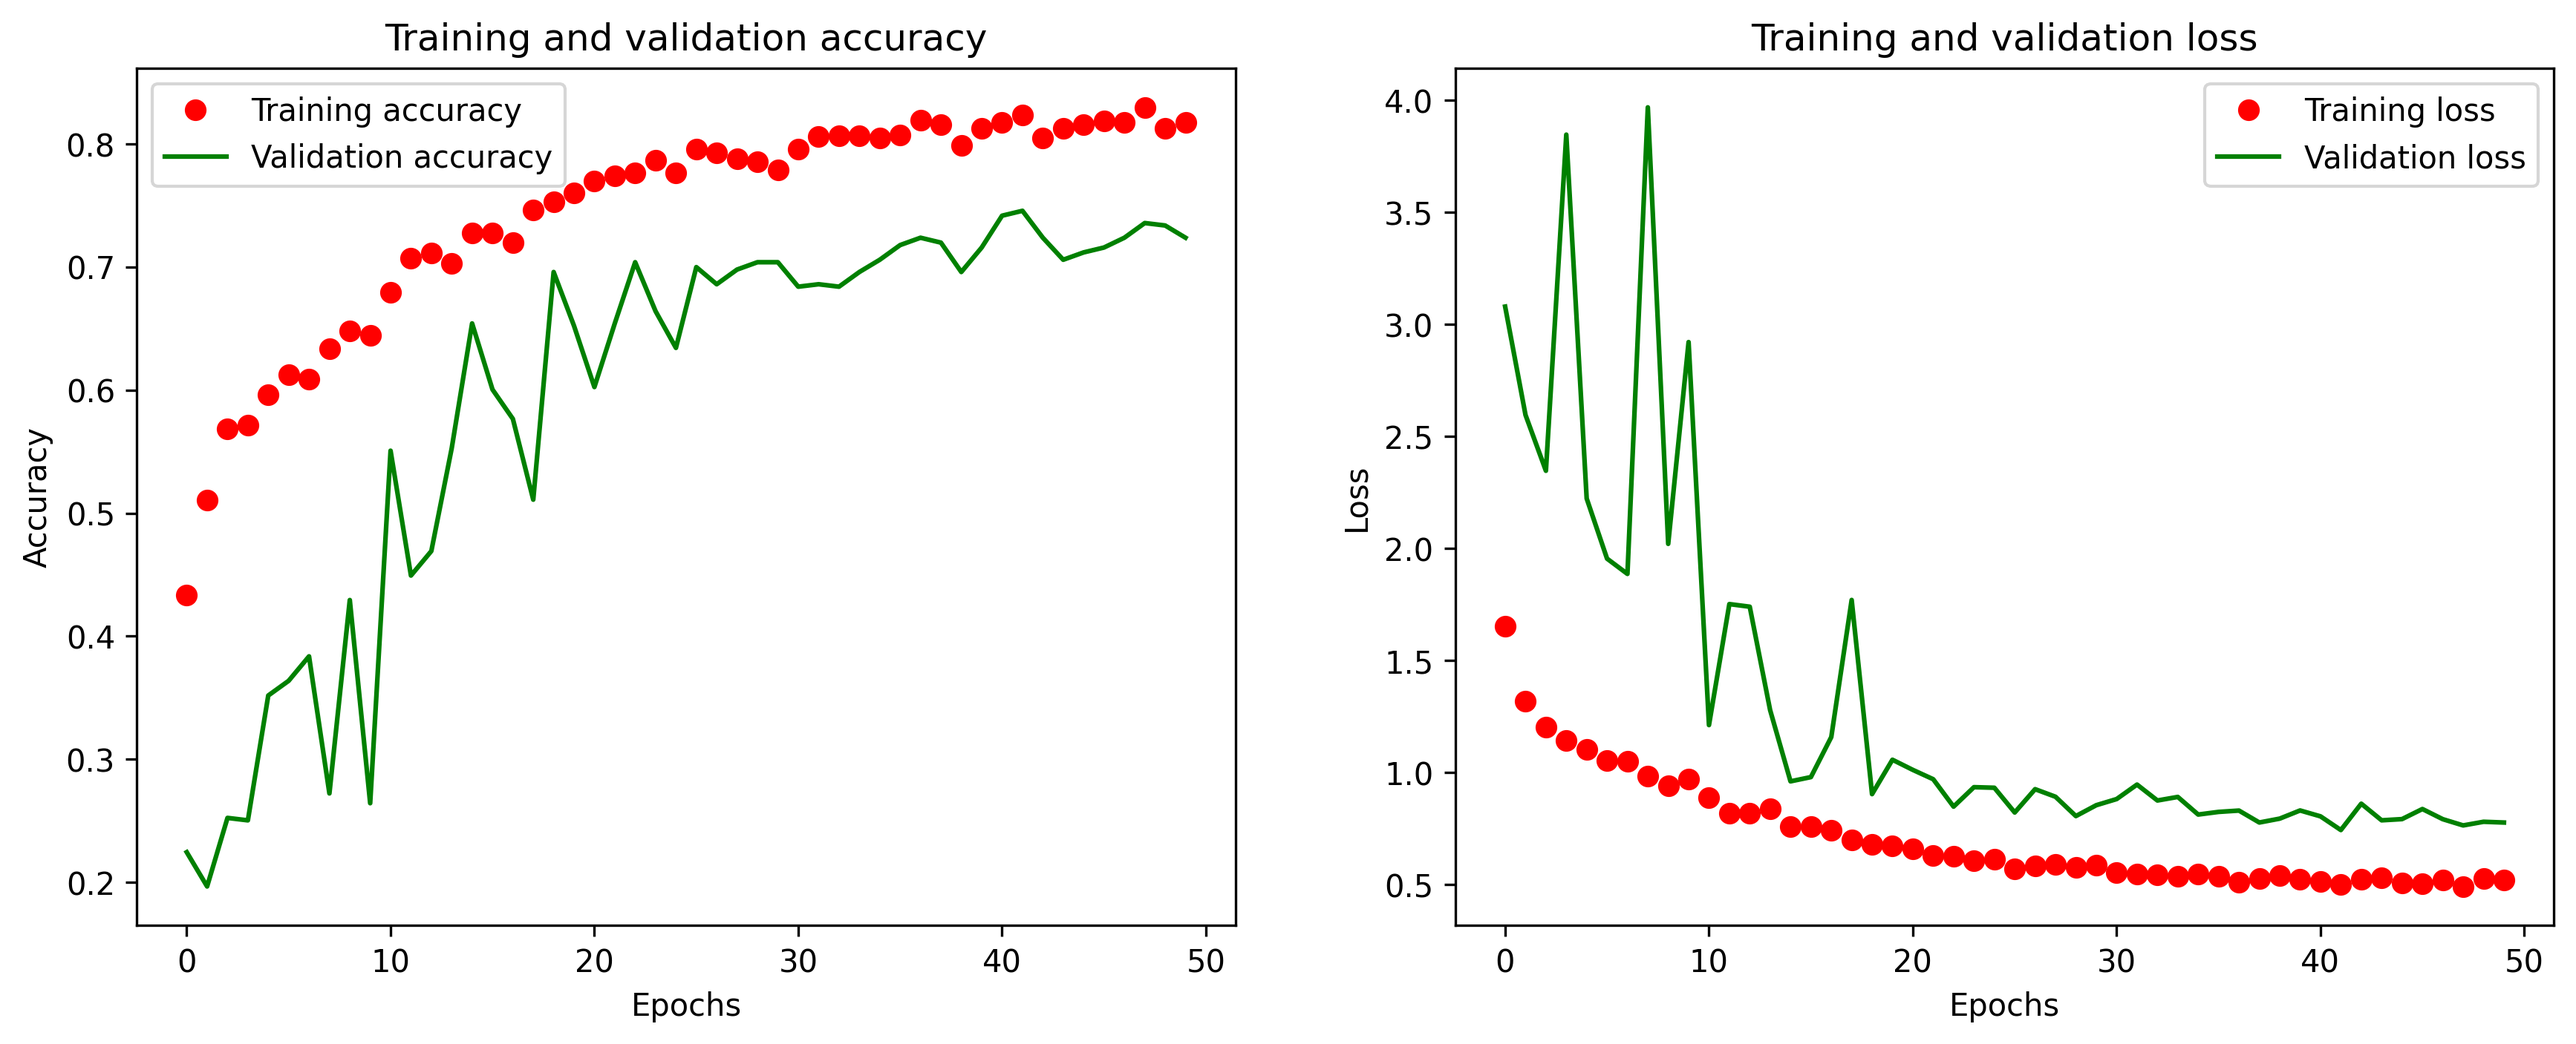
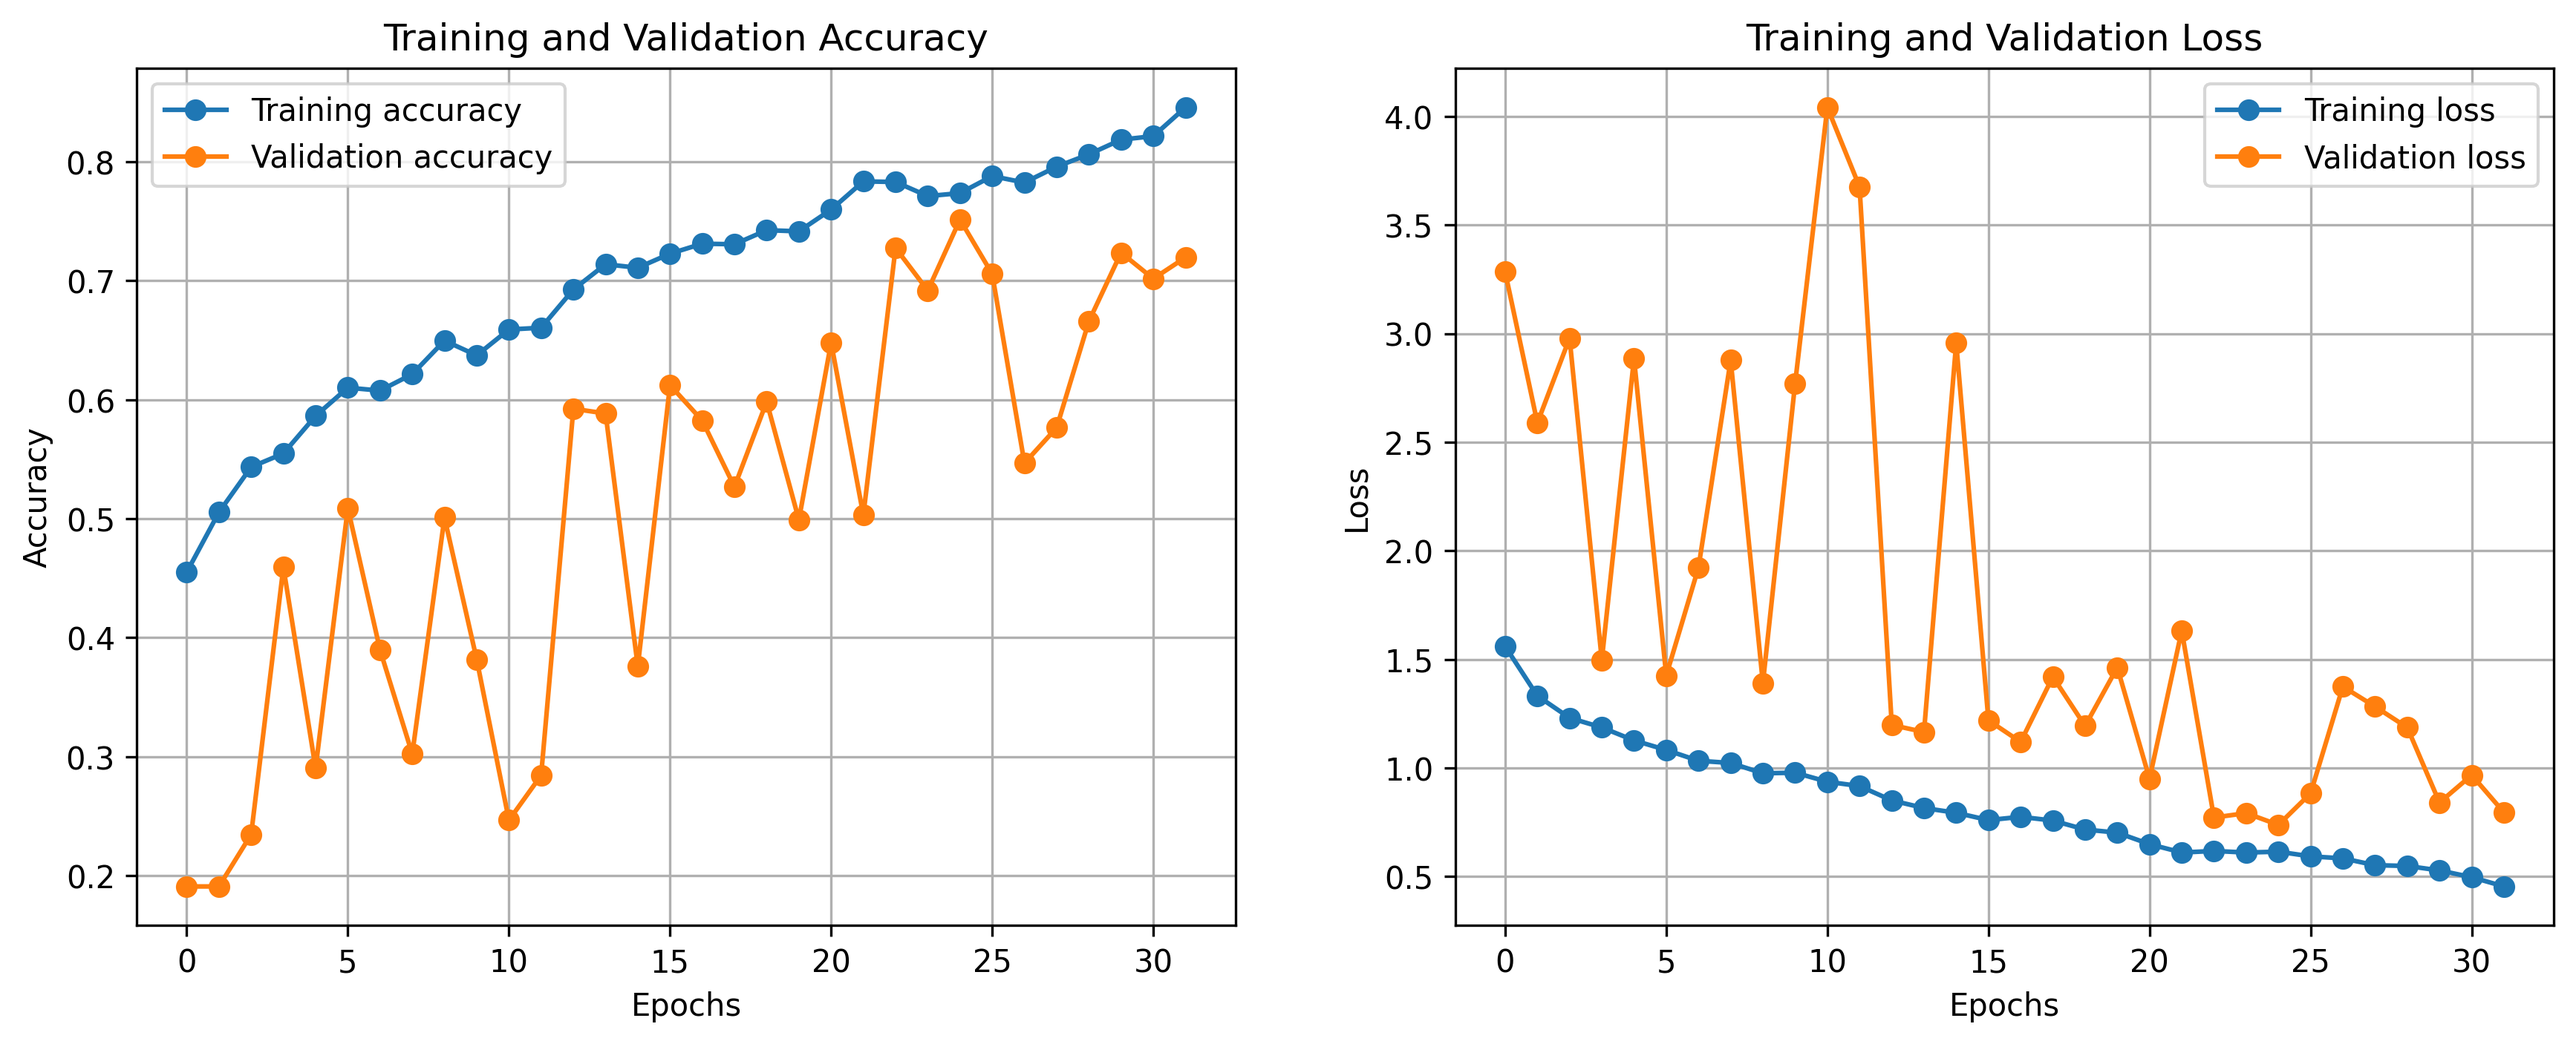
Added the new Results

diff --git a/model.py b/model.py
@@ -1,21 +1,23 @@
 import os
 import warnings
+import numpy as np
+import tensorflow as tf
+import matplotlib.pyplot as plt
+import seaborn as sns
+from tensorflow.keras import layers, models, callbacks
+from tensorflow.keras.preprocessing.image import ImageDataGenerator
+from sklearn.metrics import confusion_matrix, classification_report
 
-# CLEAN TERMINAL & LOGGING
-os.environ['TF_CPP_MIN_LOG_LEVEL'] = '3' 
+# Clean terminal logging and suppress warnings
+os.environ['TF_CPP_MIN_LOG_LEVEL'] = '3'
 os.environ['TF_ENABLE_ONEDNN_OPTS'] = '0'
 warnings.filterwarnings('ignore')
 
-import tensorflow as tf
-from tensorflow.keras import layers, models, callbacks
-from tensorflow.keras.preprocessing.image import ImageDataGenerator
-import matplotlib.pyplot as plt
-
-# FOLDER SETUP 
+# Results directory setup
 RESULTS_DIR = "results"
 os.makedirs(RESULTS_DIR, exist_ok=True)
 
-# GPU MEMORY MANAGEMENT
+# GPU memory management to prevent OOM errors on laptop hardware
 gpus = tf.config.list_physical_devices('GPU')
 if gpus:
     try:
@@ -23,82 +25,87 @@ if gpus:
             tf.config.experimental.set_memory_growth(gpu, True)
         print("GPU detected and Memory Growth enabled.")
     except RuntimeError as e:
-        print(f"!! GPU Error: {e}")
+        print(f"GPU Error: {e}")
 
-#  DATA PREPROCESSING 
+# Dataset configuration
 DATASET_PATH = "dataset/Garbage classification"
+BATCH_SIZE = 16
+IMG_SIZE = (224, 224)
 
-BATCH_SIZE = 16         # increase to 32 if GPU allows
-IMG_SIZE = (224, 224)   # increase to 300x300 if GPU allows
-
-datagen = ImageDataGenerator(
+# Training data generator with augmentation to improve generalization
+train_datagen = ImageDataGenerator(
     rescale=1./255,
-    rotation_range=30,        
+    rotation_range=30,
     width_shift_range=0.2,
     height_shift_range=0.2,
     shear_range=0.2,
     zoom_range=0.2,
     horizontal_flip=True,
-    fill_mode='nearest',      
+    fill_mode='nearest',
     validation_split=0.2
 )
 
-train_generator = datagen.flow_from_directory(
+# Validation data generator with rescaling only
+val_datagen = ImageDataGenerator(
+    rescale=1./255,
+    validation_split=0.2
+)
+
+# Flow training images from directory
+train_generator = train_datagen.flow_from_directory(
     DATASET_PATH,
     target_size=IMG_SIZE,
     batch_size=BATCH_SIZE,
     class_mode='categorical',
-    subset='training'
+    subset='training',
+    shuffle=True
 )
 
-val_generator = datagen.flow_from_directory(
+# Flow validation images from directory
+# shuffle=False is critical for the Confusion Matrix later
+val_generator = val_datagen.flow_from_directory(
     DATASET_PATH,
     target_size=IMG_SIZE,
     batch_size=BATCH_SIZE,
     class_mode='categorical',
-    subset='validation'
+    subset='validation',
+    shuffle=False
 )
 
-#  HIGH-ACCURACY GPU ARCHITECTURE 
+# Build optimized CNN architecture for 4GB VRAM
 def build_high_acc_model():
     model = models.Sequential([
         layers.Input(shape=(224, 224, 3)),
 
-        # Block 1
         layers.Conv2D(64, (3, 3), padding='same', activation='relu'),
         layers.MaxPooling2D(2, 2),
         layers.BatchNormalization(),
 
-        # Block 2 
         layers.Conv2D(128, (3, 3), padding='same', activation='relu'),
         layers.MaxPooling2D(2, 2),
         layers.BatchNormalization(),
 
-        # Block 3
         layers.Conv2D(128, (3, 3), padding='same', activation='relu'),
         layers.MaxPooling2D(2, 2),
         layers.BatchNormalization(),
 
-        # Block 4 
         layers.Conv2D(256, (3, 3), padding='same', activation='relu'),
         layers.MaxPooling2D(2, 2),
         layers.BatchNormalization(),
 
         layers.Flatten(),
-
-        # Dense Layers
         layers.Dense(256, activation='relu'),
         layers.BatchNormalization(),
         layers.Dropout(0.5),
-        
+
         layers.Dense(128, activation='relu'),
         layers.BatchNormalization(),
-        
-        layers.Dense(6, activation='softmax') 
+
+        layers.Dense(6, activation='softmax')
     ])
 
     model.compile(
-        optimizer='adam', 
+        optimizer='adam',
         loss='categorical_crossentropy',
         metrics=['accuracy']
     )
@@ -106,53 +113,94 @@ def build_high_acc_model():
 
 model = build_high_acc_model()
 
-# TRAINING WITH CALLBACKS 
+# Training callbacks
 reduce_lr = callbacks.ReduceLROnPlateau(
-    monitor='val_loss', 
-    factor=0.5, 
-    patience=3, 
-    min_lr=1e-6, 
+    monitor='val_loss',
+    factor=0.5,
+    patience=3,
+    min_lr=1e-6,
     verbose=1
 )
 
-print("\n Training is starting...")
+early_stop = callbacks.EarlyStopping(
+    monitor='val_loss',
+    patience=7,
+    restore_best_weights=True,
+    verbose=1
+)
+
+checkpoint = callbacks.ModelCheckpoint(
+    filepath=os.path.join(RESULTS_DIR, "best_model.keras"),
+    monitor='val_loss',
+    save_best_only=True,
+    verbose=1
+)
+
+# Execute model training
+print("\nTraining is starting...")
 history = model.fit(
     train_generator,
     validation_data=val_generator,
     epochs=50,
-    callbacks=[reduce_lr], # Added callback here
+    callbacks=[reduce_lr, early_stop, checkpoint],
     verbose=1
 )
 
-# SAVE RESULTS 
+# Save the final model weights
 model_path = os.path.join(RESULTS_DIR, "garbage_model_high_acc.h5")
 model.save(model_path)
 print(f"\nTraining complete. Model saved at: {model_path}")
 
-# Plotting Accuracy and Loss Graphs
+# Visualization of Accuracy and Loss curves
 plt.figure(figsize=(14, 5))
 
-# Accuracy Subplot
 plt.subplot(1, 2, 1)
-plt.plot(history.history['accuracy'], 'ro', label='Training accuracy') # Red dots
-plt.plot(history.history['val_accuracy'], 'g-', label='Validation accuracy') # Green line
-plt.title('Training and validation accuracy')
+plt.plot(history.history['accuracy'], marker='o', label='Training accuracy')
+plt.plot(history.history['val_accuracy'], marker='o', label='Validation accuracy')
+plt.title('Training and Validation Accuracy')
 plt.xlabel('Epochs')
 plt.ylabel('Accuracy')
 plt.legend()
+plt.grid(True)
 
-# Loss Subplot
 plt.subplot(1, 2, 2)
-plt.plot(history.history['loss'], 'ro', label='Training loss')
-plt.plot(history.history['val_loss'], 'g-', label='Validation loss')
-plt.title('Training and validation loss')
+plt.plot(history.history['loss'], marker='o', label='Training loss')
+plt.plot(history.history['val_loss'], marker='o', label='Validation loss')
+plt.title('Training and Validation Loss')
 plt.xlabel('Epochs')
 plt.ylabel('Loss')
 plt.legend()
+plt.grid(True)
 
-# Save the plot
 graph_path = os.path.join(RESULTS_DIR, "training_metrics.png")
 plt.savefig(graph_path, dpi=300, bbox_inches='tight')
-print(f"Graphs saved at: {graph_path}")
-
 plt.show()
+
+# Generate predictions for detailed evaluation
+print("\nGenerating evaluation metrics...")
+predictions = model.predict(val_generator)
+y_pred = np.argmax(predictions, axis=1)
+y_true = val_generator.classes
+class_labels = list(val_generator.class_indices.keys())
+
+# Plot and save Confusion Matrix
+plt.figure(figsize=(10, 8))
+cm = confusion_matrix(y_true, y_pred)
+sns.heatmap(cm, annot=True, fmt='d', xticklabels=class_labels, yticklabels=class_labels, cmap='Blues')
+plt.title('Confusion Matrix')
+plt.ylabel('Actual Category')
+plt.xlabel('Predicted Category')
+
+cm_path = os.path.join(RESULTS_DIR, "confusion_matrix.png")
+plt.savefig(cm_path, dpi=300, bbox_inches='tight')
+plt.show()
+
+# Print and save Classification Report
+report = classification_report(y_true, y_pred, target_names=class_labels)
+print("\nClassification Report:")
+print(report)
+
+report_path = os.path.join(RESULTS_DIR, "classification_report.txt")
+with open(report_path, "w") as f:
+    f.write(report)
+print(f"Detailed reports saved in the {RESULTS_DIR} folder.")
